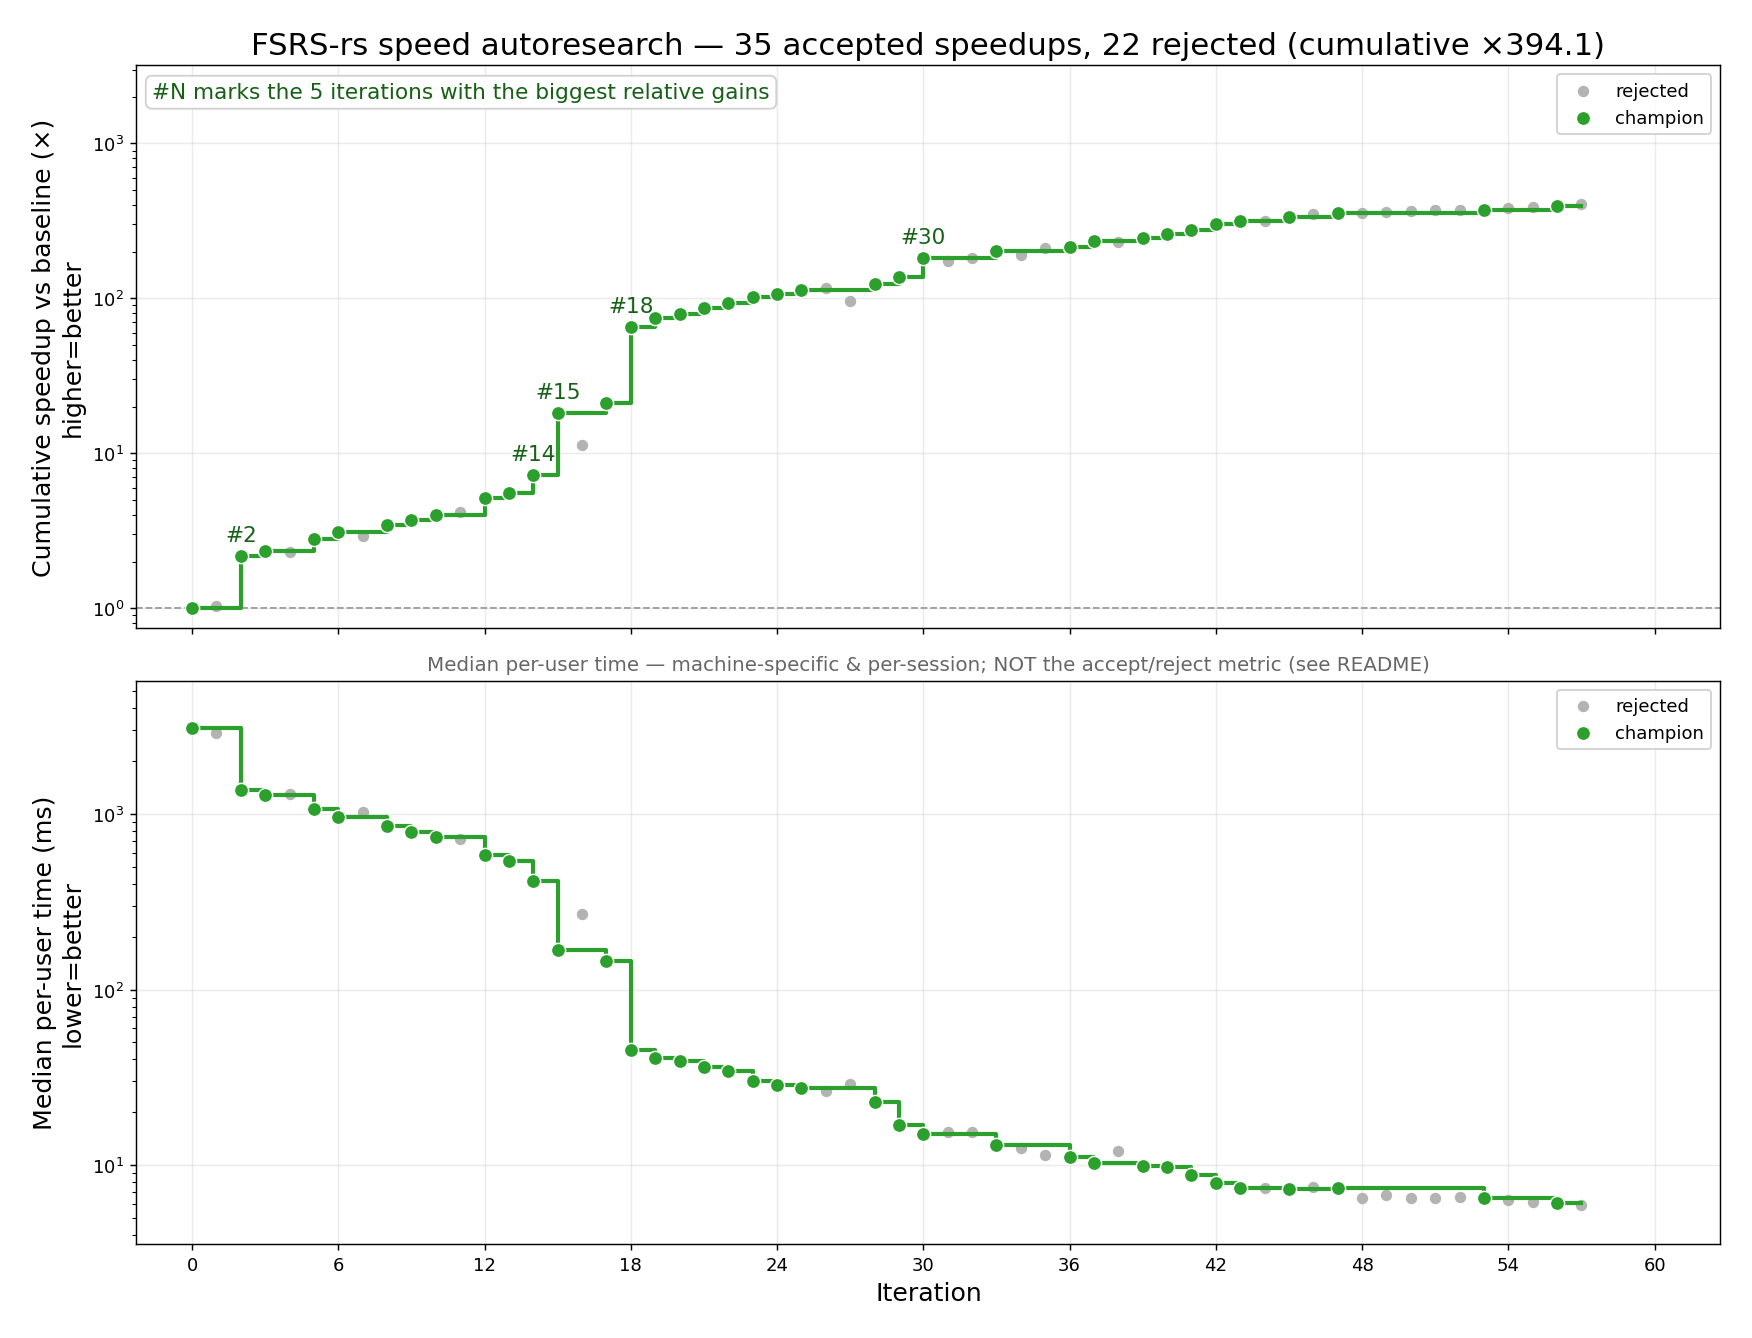
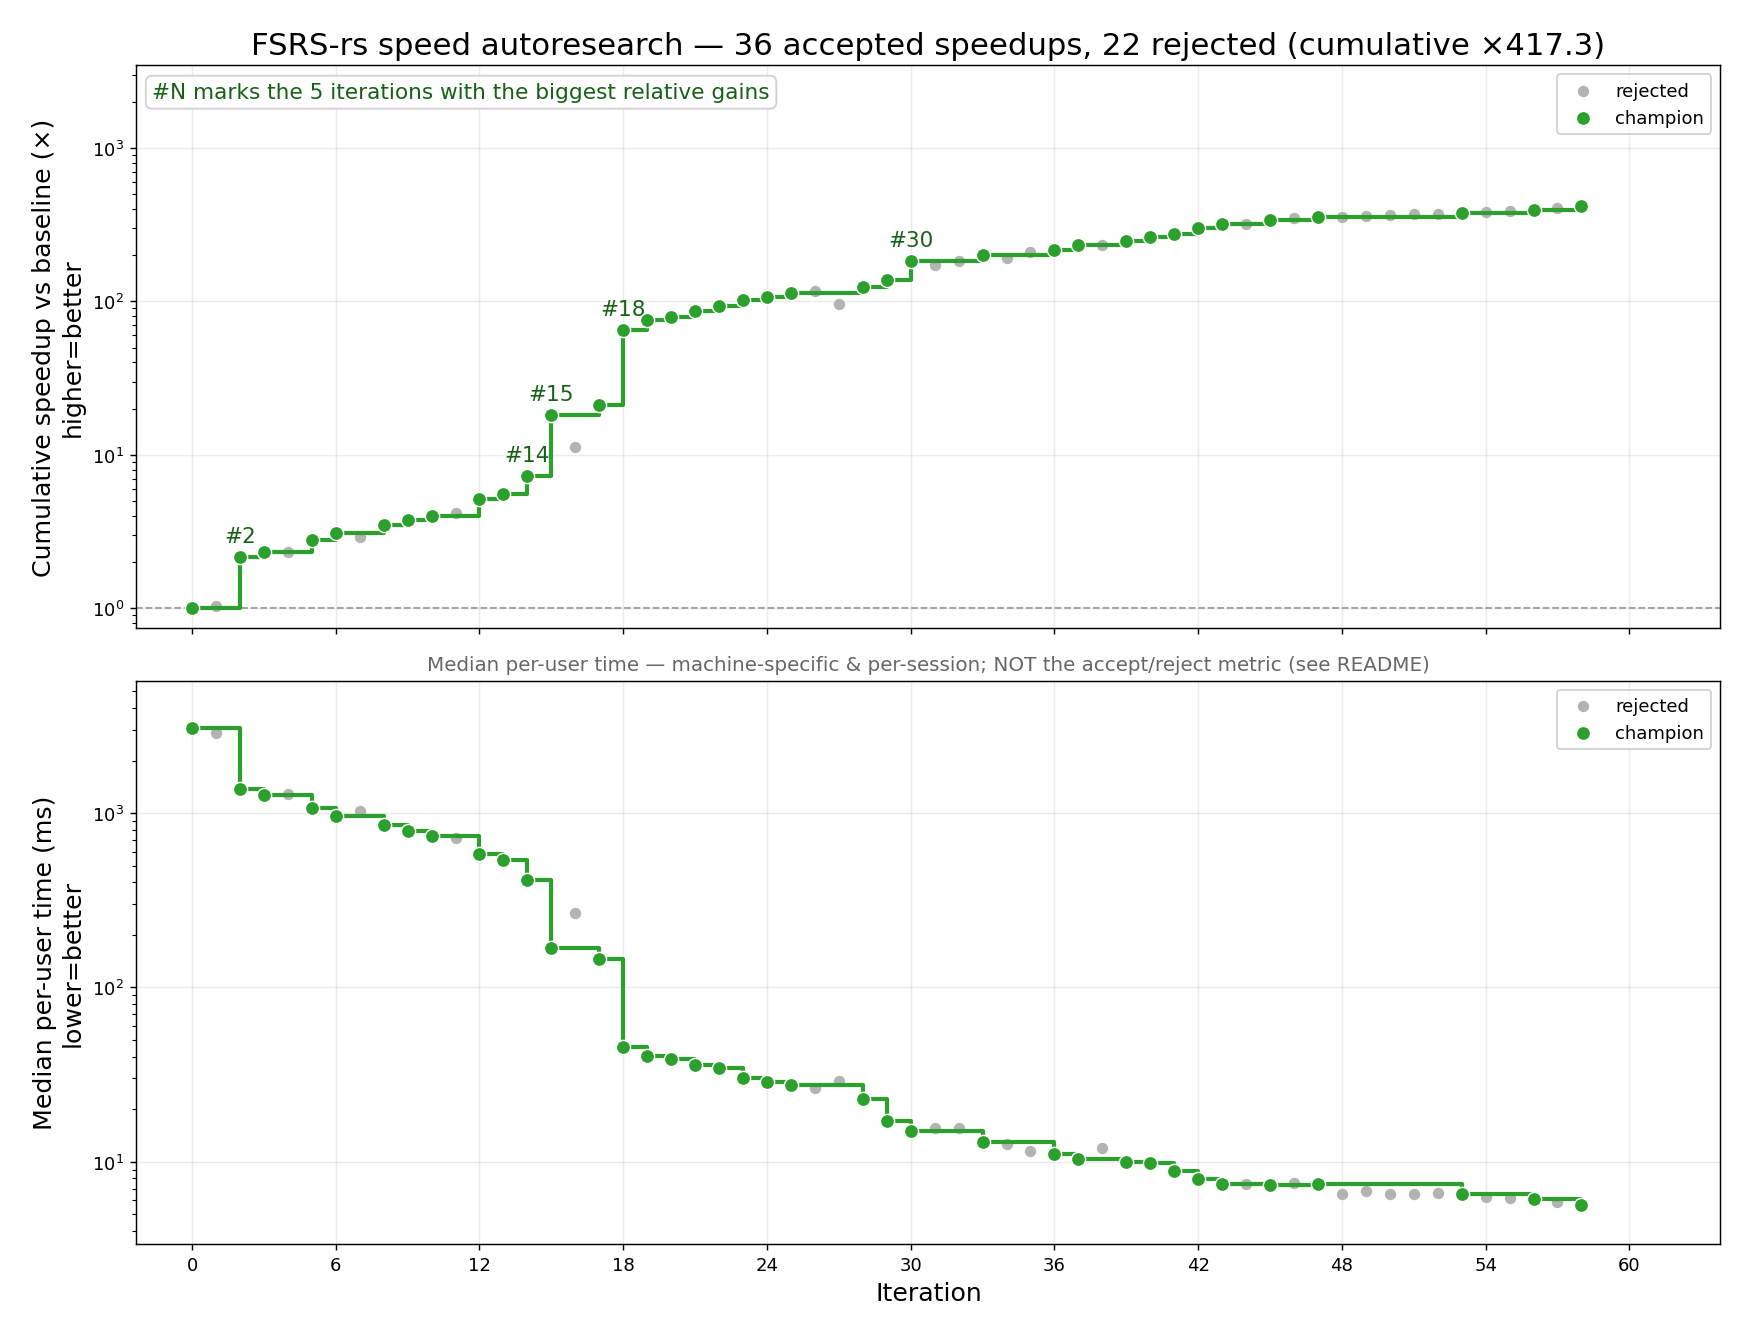
iter58 ACCEPTED (x1.059, n=1 x1.055; 3b): iter57 stack + cards ordered by first appearance + halves-first gradient lane sums
- Cards of one length are ordered by their first prediction's input order instead of by
  card id: a stable counting sort; the per-length id sort and min/max id tracking are gone.
  Batches change (reassociation, allowed by Andrew 2026-09-29).
- finish_gw adds each slot's two 4-lane halves before one transpose (was two transposes).

Paired 1.0588/1.0563/1.0606 (4-thread protocol), 50/50 param diffs, mean LogLoss
0.3083184 -> 0.3082603 (band [0.3078, 0.3113]). Complexity 11456 -> 11390.
Cumulative x417.3.

diff --git a/fsrs-rs/src/training.rs b/fsrs-rs/src/training.rs
@@ -1553,9 +1553,9 @@ fn build_batch_host(chunk: &[WeightedFSRSItem]) -> BatchHost {
 /// becomes ONE column holding its FULL review sequence, taken from its longest surviving prefix
 /// (every shorter prefix is a head of it). A surviving prefix of length L (<= max_seq_len) predicts
 /// review L-1, so its recency weight goes to wts[(L-1)*bsz + c] (label likewise); every other (t, c)
-/// stays weight 0 (a filtered middle prefix, t==0, or padding). Cards are ordered by (full length,
-/// card id) — a total order, so the batches are reproducible and length-similar (less SIMD padding)
-/// — and WHOLE cards are packed into batches of at most `batch_size` predictions, so each Adam step
+/// stays weight 0 (a filtered middle prefix, t==0, or padding). Cards are ordered by full length,
+/// and cards of one length by their first prediction in input order — a total order, so the batches
+/// are reproducible and length-similar (less SIMD padding) — and WHOLE cards are packed into batches of at most `batch_size` predictions, so each Adam step
 /// sees a whole card's predictions together. The plan reads only item headers; `layout` then fills
 /// one batch's arrays (reading each card's longest prefix, clamping delta_t as
 /// normalize_training_set does), so train() can lay out batches on its second thread.
@@ -1569,21 +1569,6 @@ struct CardedPlan {
     bounds: Vec<(usize, usize)>,
     n_items: usize,
     n_preds: usize,
-}
-
-/// The cards' `key`s ordered by full length (`at`: each length's first position), each length's
-/// keys sorted.
-fn by_length<K: Ord + Default + Clone>(cards: &[PlanCard], at: &[usize], key: impl Fn(usize) -> K) -> Vec<K> {
-    let mut keys = vec![K::default(); cards.len()];
-    let mut fill = at.to_vec();
-    for (ci, card) in cards.iter().enumerate() {
-        keys[fill[card.full_len as usize]] = key(ci);
-        fill[card.full_len as usize] += 1;
-    }
-    for l in at.windows(2) {
-        keys[l[0]..l[1]].sort_unstable();
-    }
-    keys
 }
 
 /// 24 bytes, so the per-item updates of `new` stay in cache.
@@ -1612,7 +1597,6 @@ impl CardedPlan {
         let home = |id: i64, bits: u32| ((id as u64).wrapping_mul(0x9E37_79B9_7F4A_7C15) >> (64 - bits)) as usize;
         let mut cards: Vec<PlanCard> = Vec::with_capacity(n_cards);
         let mut link: Vec<u64> = Vec::with_capacity(items.len());
-        let (mut min_id, mut max_id) = (i64::MAX, i64::MIN);
         let mut n_preds = 0;
         for (idx, (item, &id)) in items.iter().zip(card_ids).enumerate() {
             let len = item.reviews.len();
@@ -1629,7 +1613,6 @@ impl CardedPlan {
             } else {
                 slots[h] = cards.len() as u32;
                 cards.push(PlanCard { id, full_len: 0, longest: 0, n_preds: 0, last: u32::MAX });
-                (min_id, max_id) = (min_id.min(id), max_id.max(id));
                 if cards.len() * 2 > slots.len() {
                     bits += 1;
                     slots = vec![u32::MAX; 1 << bits];
@@ -1654,10 +1637,8 @@ impl CardedPlan {
             link.push((card.last as u64) << 32 | (len - 1) as u64);
             card.last = idx as u32;
         }
-        // Order the cards by (full length, card id), a total order (a card's id is unique): a
-        // counting sort by full length (<= max_seq_len), then each length's cards by id. The id
-        // sort runs on one u64 per card, (id - min id) << bits | card index, when the id span fits
-        // (card ids are millisecond timestamps, so it does), else on (id, index) pairs.
+        // Order the cards by full length, each length's cards in card order (their first
+        // prediction's input order): a stable counting sort by full length (<= max_seq_len).
         let mut at = vec![0usize; max_seq_len + 2];
         for card in &cards {
             at[card.full_len as usize + 1] += 1;
@@ -1665,15 +1646,11 @@ impl CardedPlan {
         for l in 1..at.len() {
             at[l] += at[l - 1];
         }
-        let id = |ci: usize| cards[ci].id;
-        let span = max_id.abs_diff(min_id); // (no cards: then the order is empty either way)
-        let bits = usize::BITS - cards.len().leading_zeros();
-        let order: Vec<usize> = if span >> (64 - bits) == 0 {
-            let keys = by_length(&cards, &at, |ci| id(ci).abs_diff(min_id) << bits | ci as u64);
-            keys.iter().map(|k| (k & ((1 << bits) - 1)) as usize).collect()
-        } else {
-            by_length(&cards, &at, |ci| (id(ci), ci)).iter().map(|k| k.1).collect()
-        };
+        let mut order = vec![0usize; cards.len()];
+        for (ci, card) in cards.iter().enumerate() {
+            order[at[card.full_len as usize]] = ci;
+            at[card.full_len as usize] += 1;
+        }
         let mut bounds = Vec::new();
         let (mut first, mut current_preds) = (0, 0);
         for (k, &ci) in order.iter().enumerate() {

diff --git a/fsrs-rs/src/kernel_simd.rs b/fsrs-rs/src/kernel_simd.rs
@@ -1031,22 +1031,20 @@ fn steps_rows(a: &[f32], batch: usize, n: usize) -> std::slice::ChunksExact<'_, 
 /// leaves out: slot 27 = sum(g_z) (-> gw[27], gw[28]), slot 26 = sum(x2) and slot 28 = the direct
 /// decay2 term (-> gw[26], gw[24]), slot 25 = sum(g_lw27), slots 10 / 18 = sum(n_ln) per trace.
 pub(super) fn finish_gw(gw_g: &[F; 34], w: &[f32], wc: &WConsts) -> [f32; 34] {
-    // The lane sums in reduce_add's exact order (per half ((x0 + x1) + x2) + x3, as f32 sum() from
-    // -0.0 gives, then low + high), four slots at a time on transposed halves instead of one slot
-    // at a time through memory.
-    // N = 4 (the 4-lane tail groups, see card_group_grad): one half per slot; the 8-lane sum
-    // would add the empty lanes' exact zeros as the high half.
+    // The lane sums, four slots at a time on transposed halves: ((y0 + y1) + y2) + y3 with
+    // y_i = x_i + x_{i+4} (N = 4, the 4-lane tail groups: y_i = x_i).
     let halves: &[f32x4] = bytemuck::cast_slice(&gw_g[..]);
     let nh = N / 4;
     let mut g = [0.0f32; 34];
     for c in (0..34).step_by(4) {
-        let h = |s: usize, k: usize| if s < 34 { halves[nh * s + k] } else { f32x4::ZERO };
-        let lo = f32x4::transpose([h(c, 0), h(c + 1, 0), h(c + 2, 0), h(c + 3, 0)]);
-        let mut sum = ((lo[0] + lo[1]) + lo[2]) + lo[3];
-        if nh == 2 {
-            let hi = f32x4::transpose([h(c, 1), h(c + 1, 1), h(c + 2, 1), h(c + 3, 1)]);
-            sum += ((hi[0] + hi[1]) + hi[2]) + hi[3];
-        }
+        // Each slot's two halves added first (lane i + lane i + 4), then one transpose.
+        let h = |s: usize| match (s < 34, nh) {
+            (false, _) => f32x4::ZERO,
+            (true, 1) => halves[s],
+            (true, _) => halves[2 * s] + halves[2 * s + 1],
+        };
+        let t = f32x4::transpose([h(c), h(c + 1), h(c + 2), h(c + 3)]);
+        let sum = ((t[0] + t[1]) + t[2]) + t[3];
         for (k, v) in sum.to_array().into_iter().enumerate().take(34 - c) {
             g[c + k] = v;
         }

diff --git a/result/history.md b/result/history.md
@@ -62,6 +62,7 @@ Accept metric: **median per-user speed_ratio ≥ 1.05** (constraint 12) AND **sp
 | 55 | 6 | 6 | 1.043 | 11364 | 11452 | 1.008 | 1.020 | ✓ | rejected | iter54 stack plus open-addressing card index, u64 length-bucket sort, last curve in loop |
 | 56 | 6 | 6 | 1.054 | 11364 | 11456 | 1.008 | 1.020 | ✓ | accepted | iter55 stack plus plan step stored in first pass, labels from signed-weight sign bits |
 | 57 | 6 | 6 | 1.032 | 11456 | 11441 | 0.999 | 0.997 | ✓ | rejected | plan per-card chains, helper spawned first, backward-only forward values cached |
+| 58 | 6 | 6 | 1.059 | 11456 | 11390 | 0.994 | 0.986 | ✓ | accepted | iter57 stack plus cards ordered by first appearance, halves-first gradient lane sums |
 
-**Cumulative speed_ratio (product of accepted): ×394.117** — upward-biased (winner's curse); anchor periodically vs iter-0 baseline.
+**Cumulative speed_ratio (product of accepted): ×417.291** — upward-biased (winner's curse); anchor periodically vs iter-0 baseline.
 
